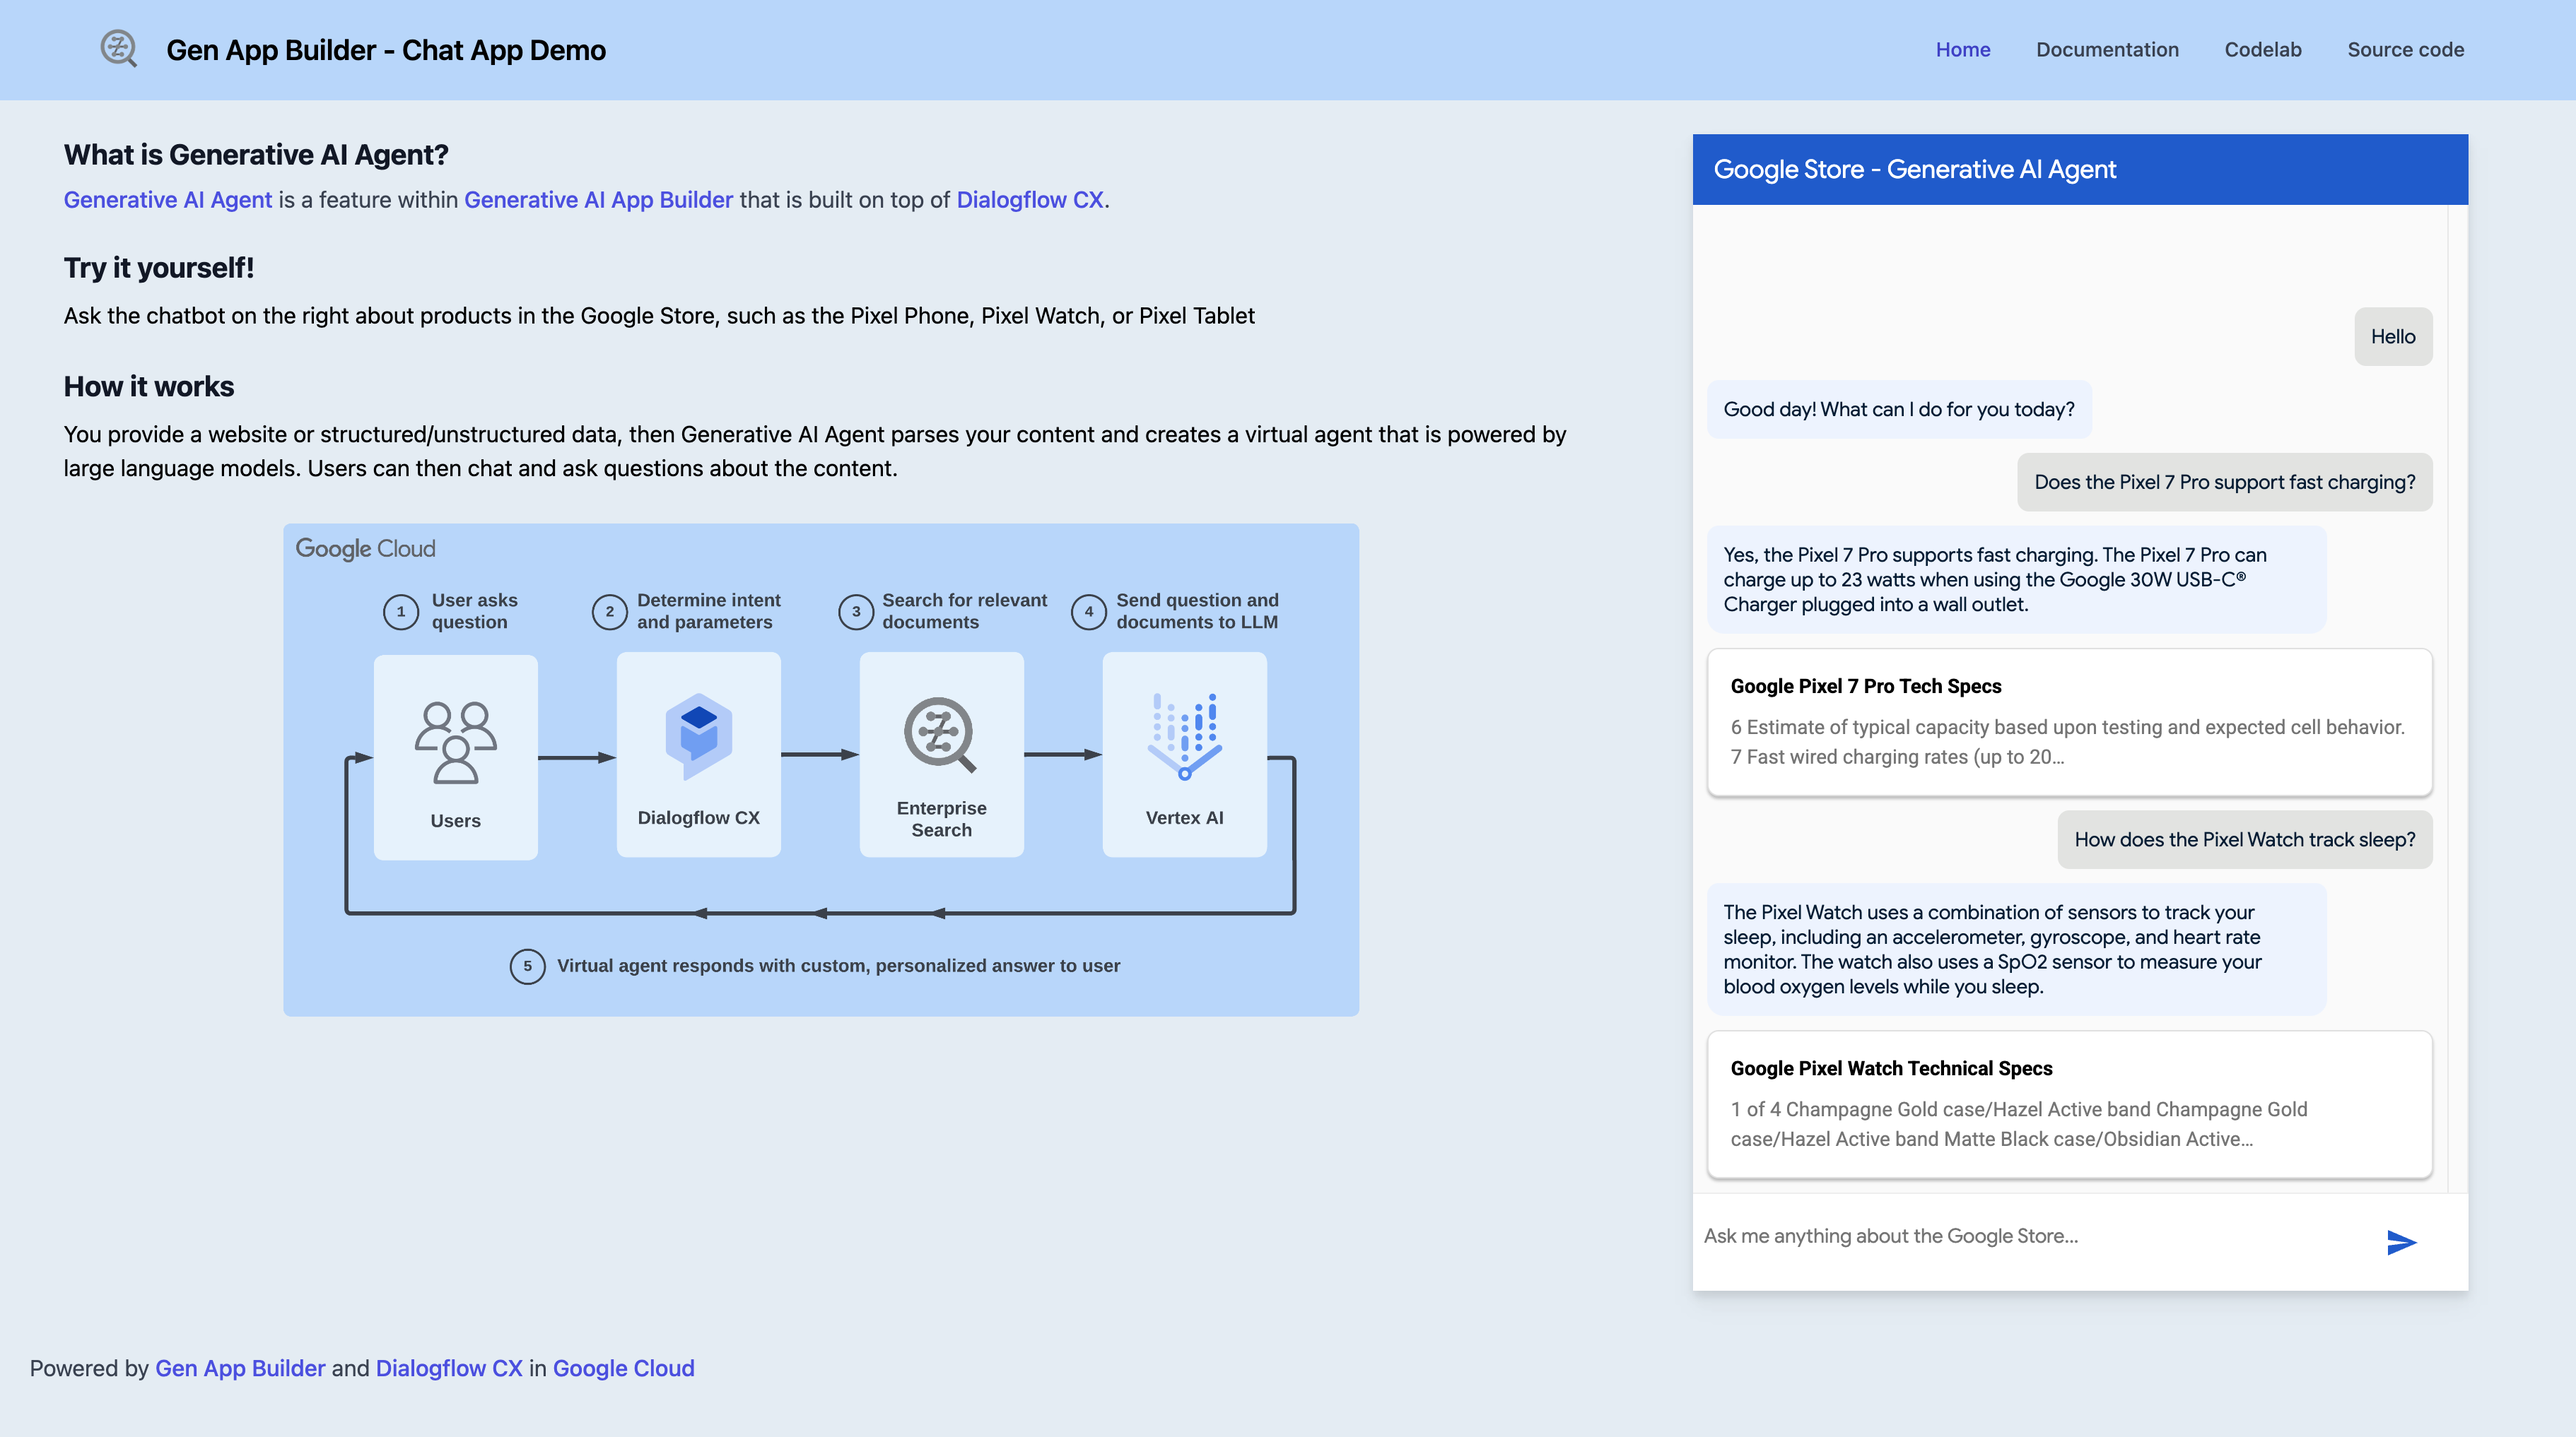
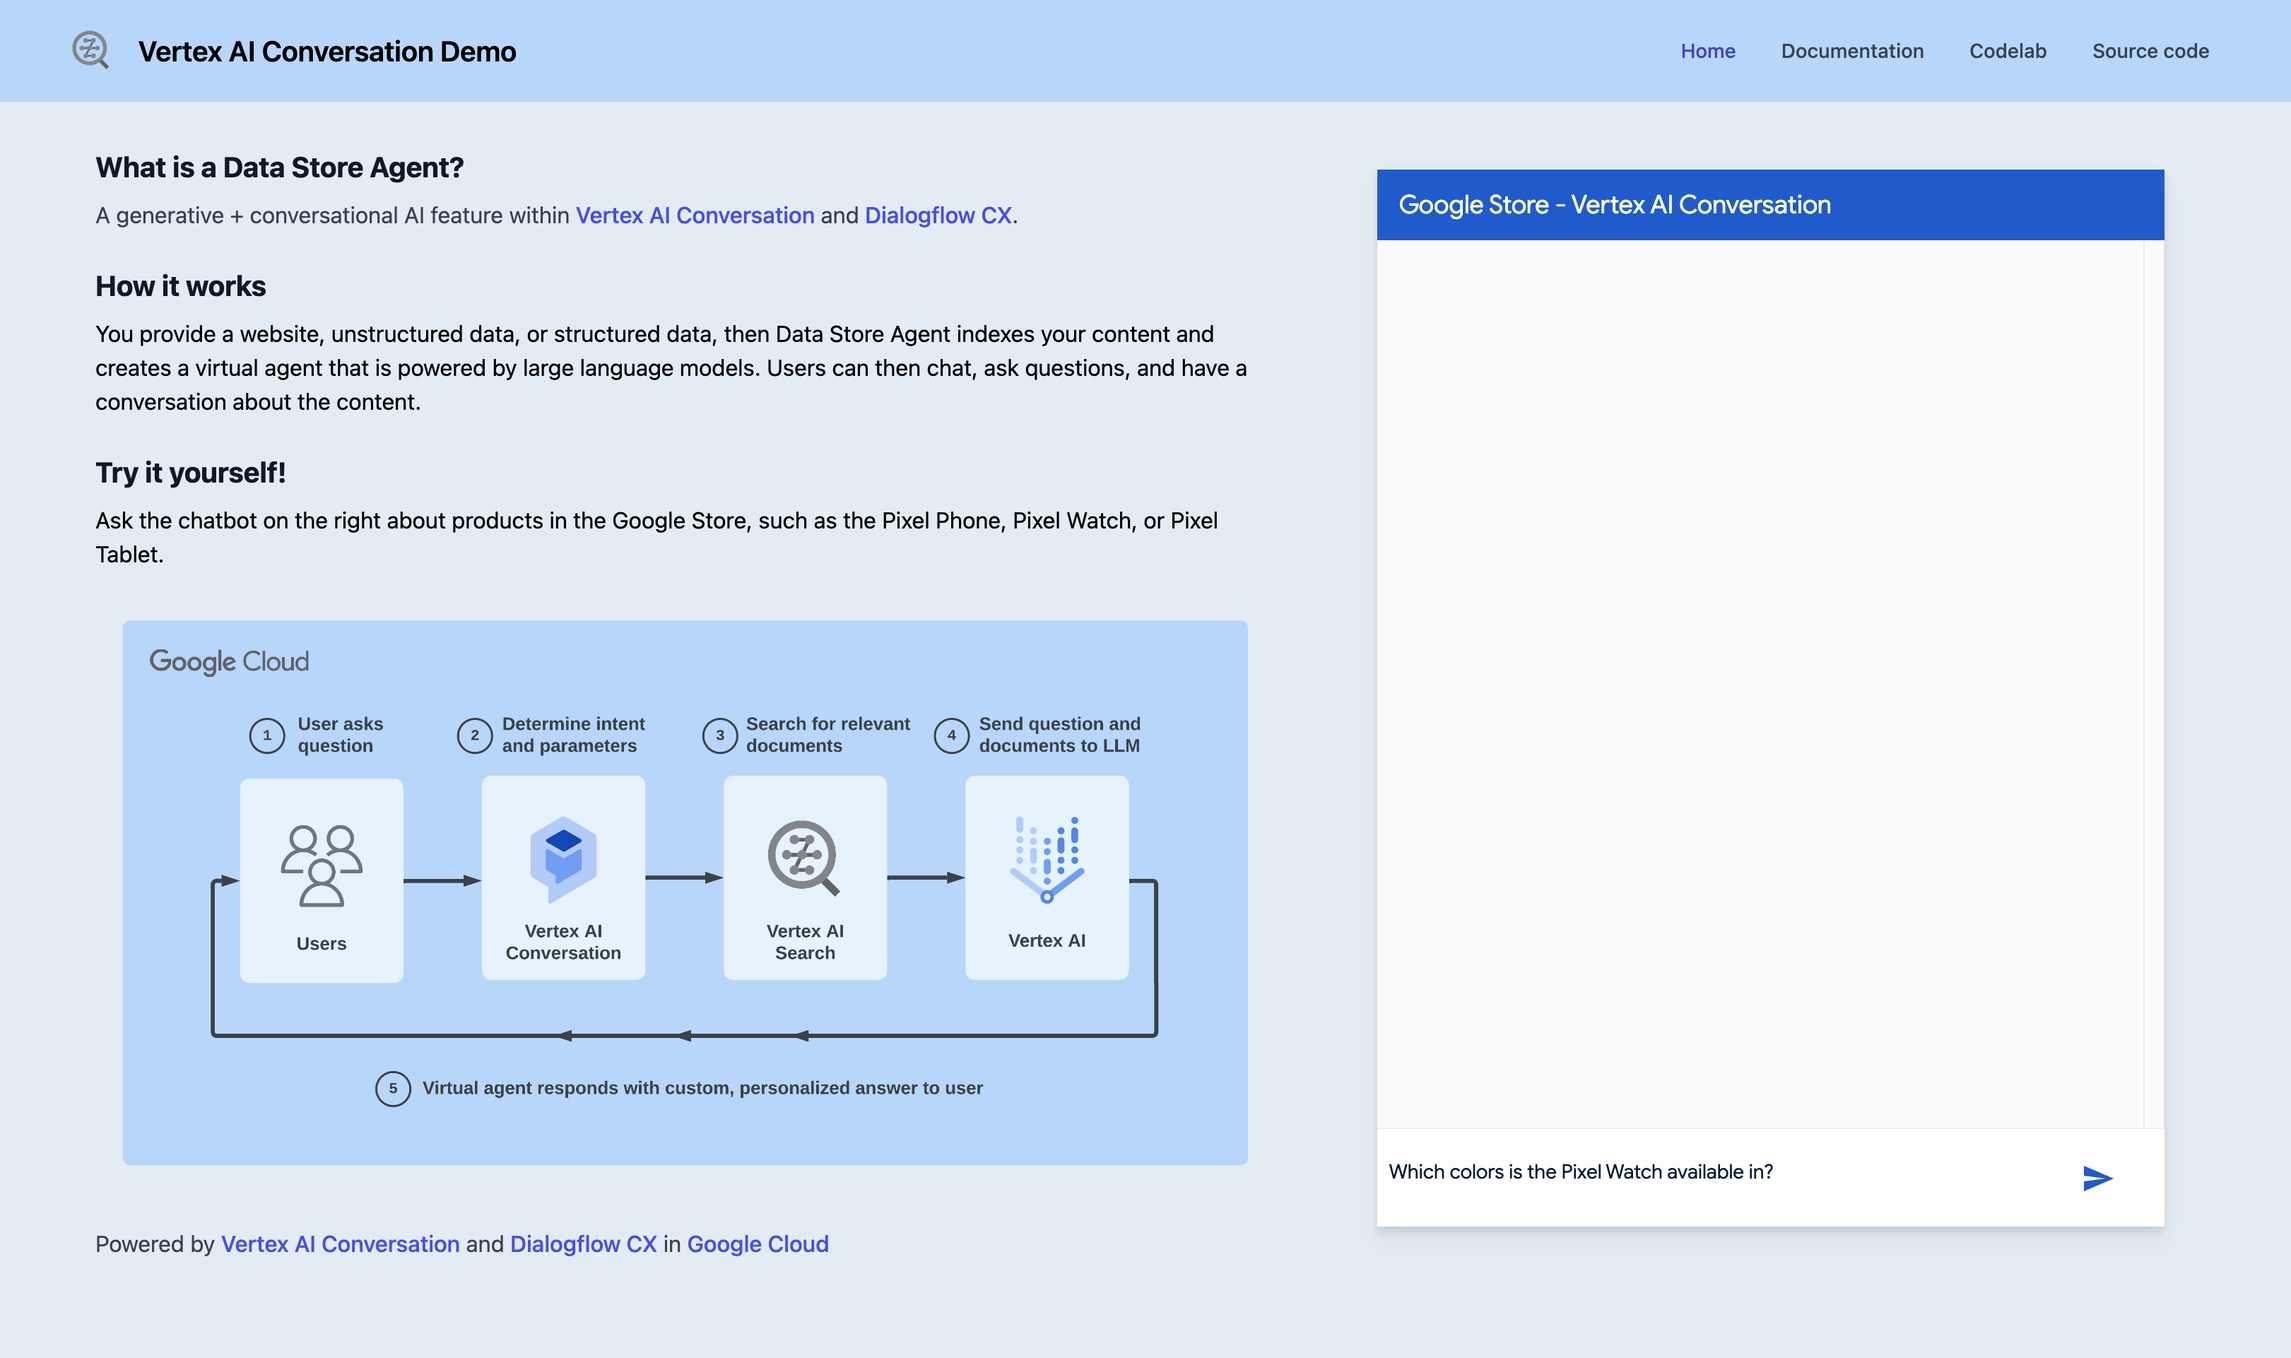
Rename "Generative AI Agent" to "Data Store Agent"

Changed region(s): [[0.0, 0.0, 1.0, 0.9053], [0.0, 0.9053, 0.3738, 0.9677]]

diff --git a/conversation/chat-app/src/routes/+page.svelte b/conversation/chat-app/src/routes/+page.svelte
@@ -82,7 +82,7 @@
   <div class="max-h-full max-w-full bg-[#E2ECF3]">
     <div class="flex max-h-[90vh]">
       <div class="m-6 w-3/5">
-        <Heading tag="h5" class="my-2">What is Generative AI Agent?</Heading>
+        <Heading tag="h5" class="my-2">What is a Data Store Agent?</Heading>
         <p class="font-normal text-gray-700 dark:text-gray-400">
             A generative + conversational AI feature within <A
             href="https://cloud.google.com/generative-ai-app-builder"
@@ -93,7 +93,7 @@
         </p>
 
         <Heading tag="h5" class="my-2 mt-6">How it works</Heading> You provide a
-        website, unstructured data, or structured data, then Generative AI Agent
+        website, unstructured data, or structured data, then Data Store Agent
         indexes your content and creates a virtual agent that is powered by
         large language models. Users can then chat, ask questions, and have a
         conversation about the content.
@@ -104,7 +104,7 @@
 
         <img
           src="how-chat-works.png"
-          alt="Lifecycle of a Generative AI Agent Question"
+          alt="Lifecycle of a Data Store Agent Question"
           class="mx-auto mt-4" />
 
         <p class="mt-6 align-bottom font-normal text-gray-700 dark:text-gray-400">

diff --git a/conversation/chat-app/README.md b/conversation/chat-app/README.md
@@ -1,19 +1,21 @@
-# Vertex AI Conversation
+# Gen App Builder (Chat App)
 
 ## Overview
 
-[Vertex AI Conversation](https://cloud.google.com/generative-ai-app-builder/docs/agent-intro)
-is built on top of functionality in
+[Data Store Agent](https://cloud.google.com/generative-ai-app-builder/docs/agent-intro)
+is a feature within
+[Vertex AI Conversation](https://cloud.google.com/generative-ai-app-builder)
+that is built on top of functionality in
 [Dialogflow CX](https://cloud.google.com/dialogflow).
 
 ![Vertex AI Conversation Demo](static/vertex-ai-conversation.png)
 
-With Vertex AI Conversation, you can provide a website domain, structured data, or
-unstructured data, then it parses your content and creates a
+With a Data Store Agent, you can provide a website domain, structured data, or
+unstructured data, then the Data Store Agent parses your content and creates a
 virtual agent that is powered by data stores and large language models. Your
 customers and end users can then have conversations with the agent and ask
 questions about the content. Refer to the
-[Vertex AI Conversation documentation](https://cloud.google.com/generative-ai-app-builder/docs/agent-usage)
+[Data Store Agent documentation](https://cloud.google.com/generative-ai-app-builder/docs/agent-usage)
 and codelab to
 [Create a Generative Chat App with Vertex AI Conversation](https://codelabs.developers.google.com/codelabs/vertex-ai-conversation)
 for more information.
@@ -62,7 +64,7 @@ for more information.
 
 In your browser, navigate to your deployed app using a URL similar to:
 
-[https://vertex-ai-conversation-demo.web.app/](https://vertex-ai-conversation-demo.web.app/)
+[https://vertex-ai-conversation.web.app/](https://vertex-ai-conversation.web.app/)
 
 Congratulations, you've successfully deployed the Vertex AI Conversation Demo!
 
@@ -71,7 +73,8 @@ Congratulations, you've successfully deployed the Vertex AI Conversation Demo!
 You can continue learning about conversational AI and generative AI with
 these guides and resources:
 
-- [Documentation for Dialogflow CX](https://cloud.google.com/dialogflow/cx/docs)
 - [Overview of Vertex AI Conversation](https://cloud.google.com/generative-ai-app-builder/docs/agent-intro)
-- [Documentation for Vertex AI Conversation](https://cloud.google.com/generative-ai-app-builder/docs/agent-usage)
+- [Create and use Data Store Agents](https://cloud.google.com/generative-ai-app-builder/docs/agent-usage)
+- [Documentation for Dialogflow CX](https://cloud.google.com/dialogflow/cx/docs)
+- [Documentation for Data Store Agents](https://cloud.google.com/dialogflow/cx/docs/concept/data-store-agent)
 - [Generative AI in Google Cloud](https://cloud.google.com/ai/generative-ai)
